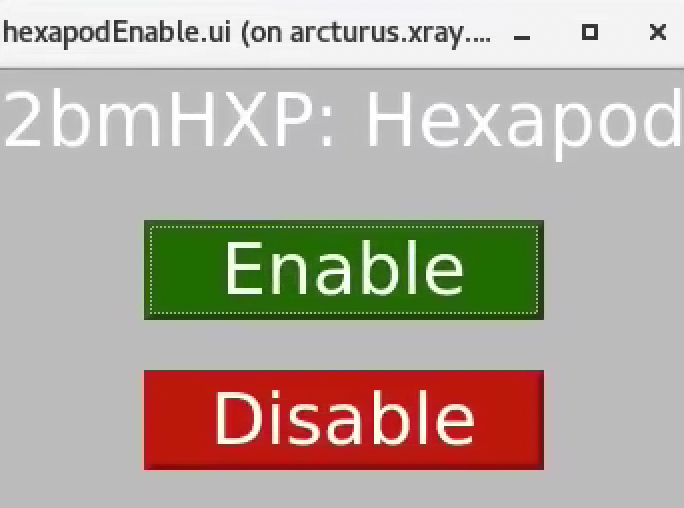
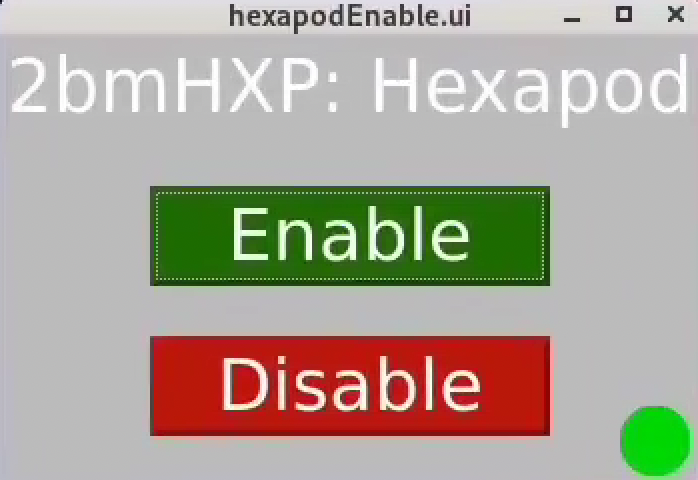
added instructions on how  to recover after the hexapod driver reboot

diff --git a/docs/source/manual/item_050.rst b/docs/source/manual/item_050.rst
@@ -115,18 +115,93 @@ EPICS support
 
    (base) 2bmb@arcturus ~ $ hexapod caqtdm
 
-.. image:: ../img/hexapod_01.png 
+.. figure:: ../img/hexapod_01.png 
    :width: 720px
    :align: center
    :alt: 2bma_beamline
 
+   Hexapod control screen
 
-.. image:: ../img/hexapod_02.png 
+.. figure:: ../img/hexapod_02.png 
    :width: 256px
    :align: center
    :alt: 2bma_beamline
 
-.. image:: ../img/hexapod_03.png 
+   Hexapod enable screen
+
+.. figure:: ../img/hexapod_03.png 
    :width: 720px
    :align: center
    :alt: 2bma_beamline
+
+   Hexapod motion control screen
+
+Drive Error Recover
+-------------------
+
+In some situations—such as when the hexapod is commanded to move far beyond its travel range—a controller error may be triggered, causing all axis controller drivers to disconnect. When this happens, the Enable/Fault indicator light, which is normally green, will turn off.
+
+
+.. figure:: ../img/hexapod_06.png 
+   :width: 720px
+   :align: center
+   :alt: 2bma_beamline
+
+   Hxapod controller. The arrow indicates the Enable/Fault status light.
+
+To recover from this situation, follow these steps:
+
+- Stop the EPICS IOC running the hexapod.
+
+.. figure:: ../img/hexapod_07.png 
+   :width: 360px
+   :align: center
+   :alt: 2bma_beamline
+
+   Hexapod EPICS IOC control
+
+- From the Tomo control screen, select PDU 1.
+
+.. figure:: ../img/PDU_01.png 
+   :width: 256px
+   :align: center
+   :alt: 2bma_beamline
+
+   PDU selector
+
+.. figure:: ../img/PDU_02.png 
+   :width: 360px
+   :align: center
+   :alt: 2bma_beamline
+
+   PDU web interface
+
+
+- Power cycle Outlet #5, labeled Hexapod.
+- Wait approximately 2 minutes, then start the Hexapod EPICS IOC.
+- Ensure the controller is enabled.
+
+
+After a few minutes, the hexapod will restart.
+
+.. warning:: After rebooting, the Hexapod Y stage does not correctly reset its dial position. Please follow the procedure below until a permanent fix is implemented.
+
+Upon reboot, all motions are homed correctly — meaning the dial position and encoder readback dial are both set to zero — except for the Y motion. In this case, the dial position is correctly set to zero (see red arrow), but the encoder readback dial is set at 350 (see green arrow in the figure).
+
+Attempting to move the Y axis in this state will result in a driver error.
+
+.. figure:: ../img/hexapod_08.png 
+   :width: 360px
+   :align: center
+   :alt: 2bma_beamline
+
+   Hexapod Y after controller reboot
+
+Solution: Manually set the Y axis dial to 350, as shown in the figure below:
+
+.. figure:: ../img/hexapod_09.png 
+   :width: 360px
+   :align: center
+   :alt: 2bma_beamline
+
+   Hexapod Y dial must be manually set to 350 after controller reboot.
